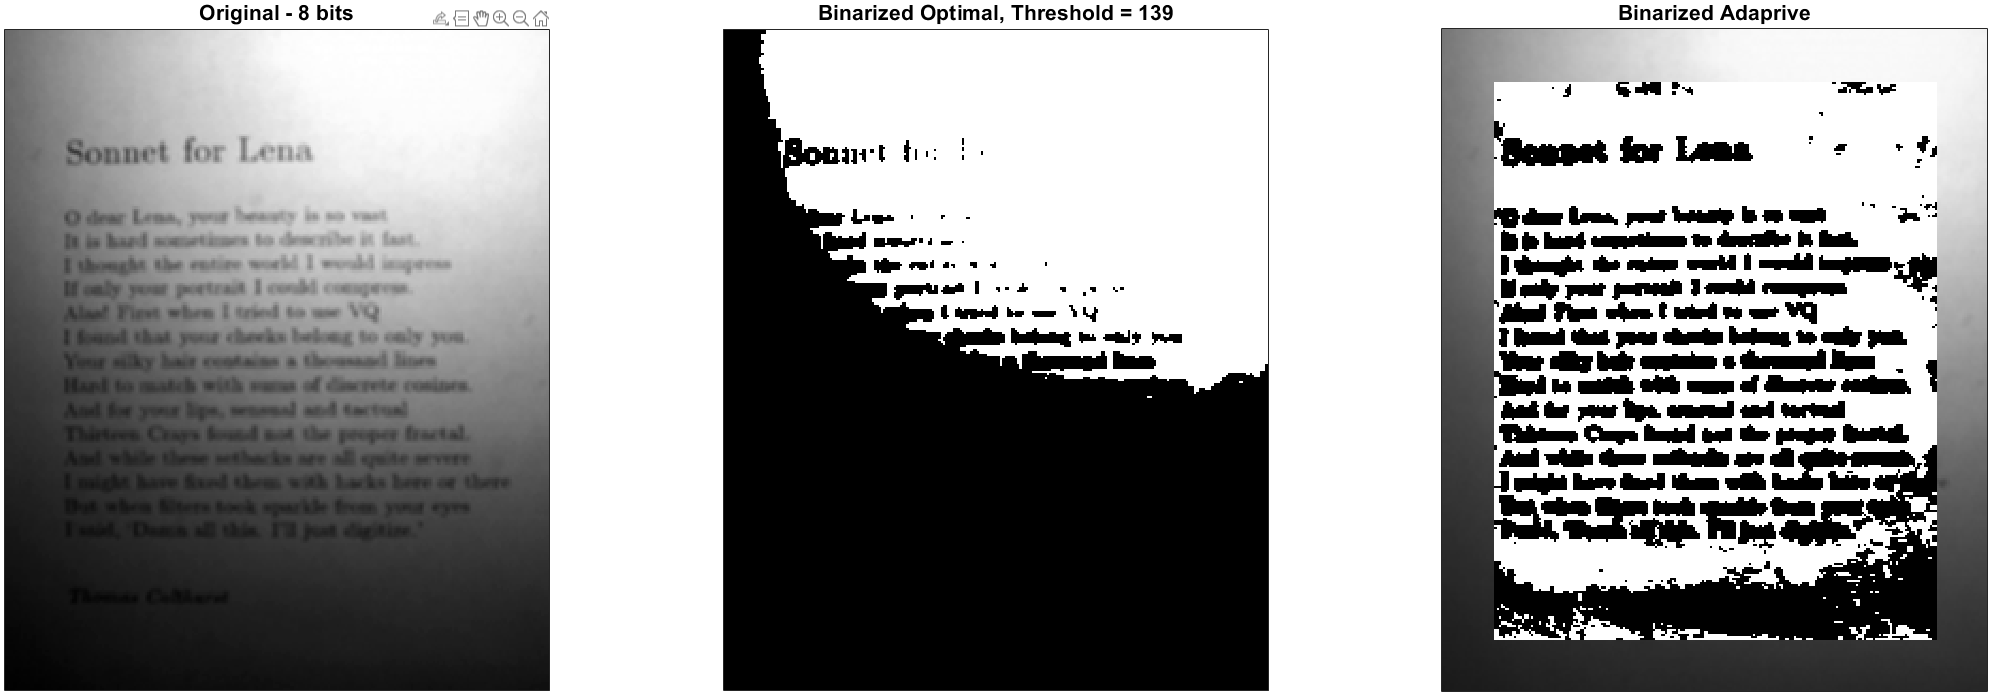
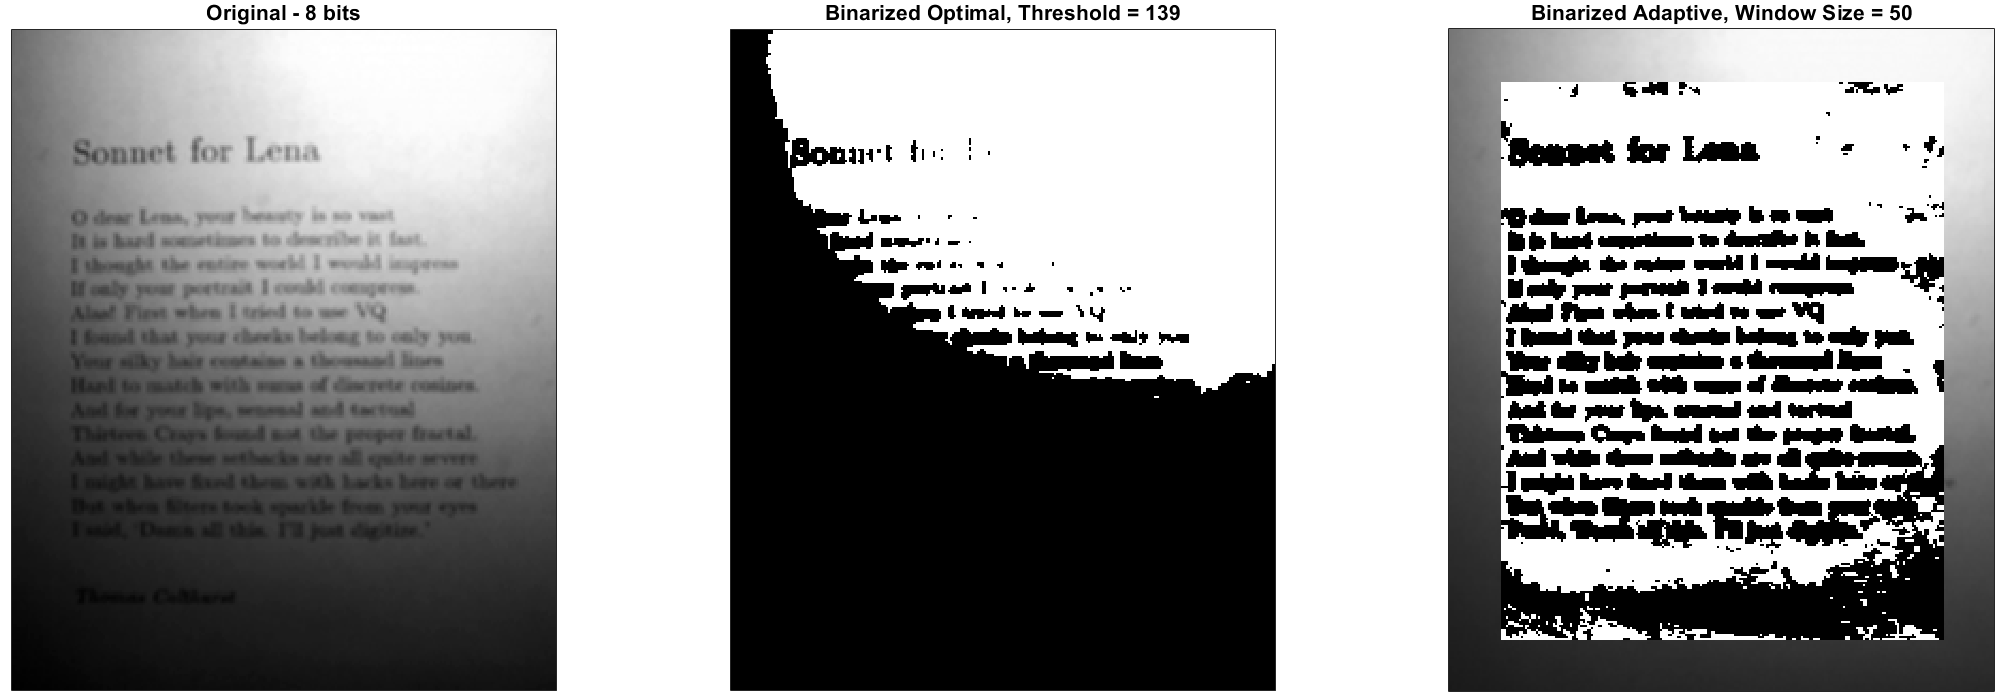
update

diff --git a/HW_1/script.m b/HW_1/script.m
@@ -146,7 +146,7 @@ set(gca,'ytick',[])
 [bimageAdaptive] = binarizeOptAdaptive(image, winsize);
 subplot(1, 3, 3)
 imagesc(bimageAdaptive)
-title(['Binarized Adaprive'], 'FontSize', 16)
+title(['Binarized Adaptive, Window Size = ', num2str(winsize)], 'FontSize', 16)
 colormap('gray');
 axis image;
 set(gca,'xtick',[])
